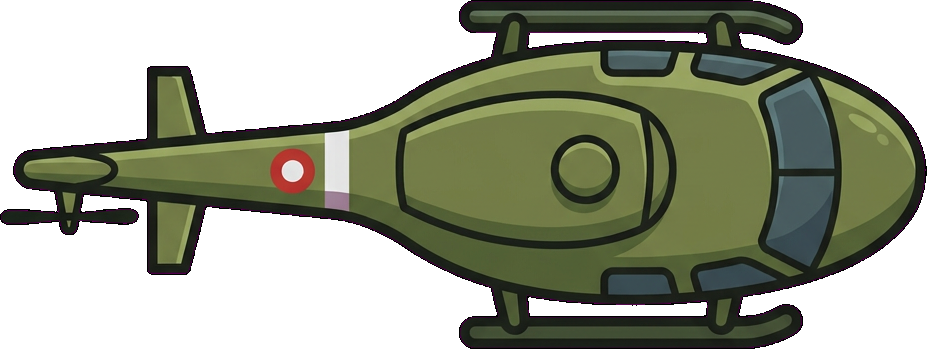
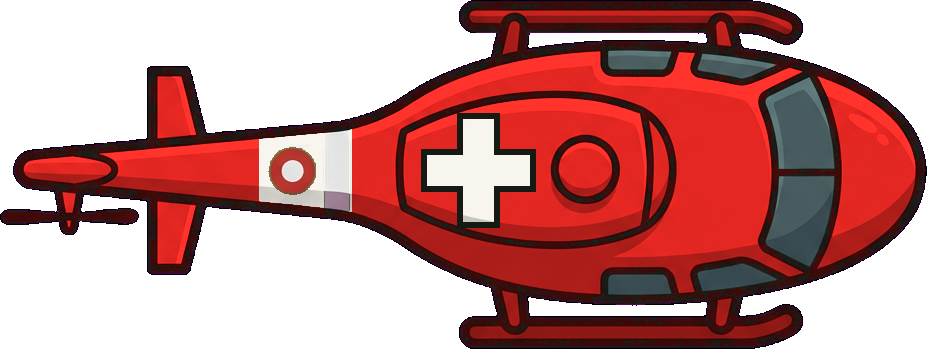
Rescue-red chopper; rotor slices zombies while landed; squish drops no loot
- Chopper body recoloured from the same source art (geometry unchanged, so
  the hub anchor, footprint and shadow still line up): bright rescue red with
  a white tail band and a white cross with an ink outline on the engine cover.
- Rotor slicing from touchdown until lift-off: each blade pass rolls
  RUN.sliceChance for every zombie within RUN.sliceRadius of the hub, limited
  to RUN.slicesPerSecond (bursts up to sliceBurst). Chopped zombies lose
  limbs/head through Limbs.launch, flung along the blade's spin with a big
  spray and floor streaks; throttled rotor-chop sound (new sfx), head pop.
- Horde.kill takes a KillCredit: "full" (normal), "count" (counts, no
  onKill loot/drops) for the touchdown squish, "none" for rotor slices (no
  kill count, no loot, no drops). The player is never touched by either.

diff --git a/src/run/Chopper.ts b/src/run/Chopper.ts
@@ -3,7 +3,7 @@ import { ARENA } from "../config/arena";
 import type { Audio } from "../audio/Audio";
 import { BLOOD_SPRAY } from "../combat/CombatContext";
 import { RUN } from "../config/run";
-import { KNOCKBACK_DRAG, MAX_ZOMBIE_RADIUS } from "../config/zombies";
+import { KNOCKBACK_DRAG, MAX_ZOMBIE_RADIUS, PART_IDS } from "../config/zombies";
 import { rand } from "../core/random";
 import type { ExclusionZone, Horde } from "../entities/Horde";
 import type { Zombie } from "../entities/Zombie";
@@ -43,6 +43,10 @@ const SQUISH_SPRAY = 10;
 const SQUISH_TRAUMA = 0.4;
 const LAND_TRAUMA = 0.15;
 const TWO_PI = Math.PI * 2;
+/** Rotor blades; each one sweeping past is a chance to chop. */
+const BLADES = 4;
+/** Chopped bodies and pieces leave along the blade, with this much of the push straight out from the hub. */
+const FLING_OUT = 0.5;
 
 /** What the chopper pushes, squishes and shakes. */
 export interface ChopperWorld {
@@ -100,6 +104,12 @@ export class Chopper {
   private readonly keepOut: ExclusionZone[] = [];
   /** Footprint outline while the AI debug overlay (V) is on. */
   private readonly debug = new Graphics();
+  /** Rotor angle since the last blade pass, chops banked by the rate limit, and the chop sound's cooldown. */
+  private bladeTurn = 0;
+  private chops = 0;
+  private chopSound = 0;
+  private readonly stump = { x: 0, y: 0 };
+  private readonly inReach: Zombie[] = [];
 
   constructor(
     private readonly tex: GameTextures,
@@ -212,6 +222,7 @@ export class Chopper {
       this.y = this.from.y + Math.sin(this.heading) * run;
     }
     this.rotor.rotation += RUN.rotorSpin * dt;
+    if (this.phase === "landed") this.slice(dt);
     const wash =
       this.phase === "descend" ? this.descentWash(dt) : this.blow(dt);
     this.kickDust(dt, wash);
@@ -349,7 +360,7 @@ export class Chopper {
         SQUISH_SPRAY,
         BLOOD_SPRAY,
       );
-      horde.kill(z);
+      horde.kill(z, "count");
     }
     for (const c of circles) this.keepOut.push(horde.addZone(c.x, c.y, c.r));
     audio.play("explosion", {
@@ -359,6 +370,72 @@ export class Chopper {
     if (crushed.size > 0)
       audio.play("zombieTear", { pitch: rand(0.7, 0.85), volume: 0.9 });
     camera.addTrauma(crushed.size > 0 ? SQUISH_TRAUMA : LAND_TRAUMA);
+  }
+
+  /**
+   * Landed: the turning blades chew the crowd at the body's edge. Each blade pass rolls for every
+   * zombie in reach, rate-limited so it reads as a gory spectacle rather than a force field.
+   */
+  private slice(dt: number): void {
+    this.chops = Math.min(
+      RUN.sliceBurst,
+      this.chops + RUN.slicesPerSecond * dt,
+    );
+    this.chopSound -= dt;
+    this.bladeTurn += RUN.rotorSpin * dt;
+    const pass = TWO_PI / BLADES;
+    while (this.bladeTurn >= pass) {
+      this.bladeTurn -= pass;
+      if (this.chops < 1) continue;
+      const r = RUN.sliceRadius;
+      const { x, y } = this;
+      this.inReach.length = 0;
+      this.world.horde.hash.queryBox(x - r, y - r, x + r, y + r, (z) => {
+        if (!z.dead && (z.x - x) ** 2 + (z.y - y) ** 2 < r * r)
+          this.inReach.push(z);
+      });
+      for (const z of this.inReach) {
+        if (this.chops < 1) break;
+        if (Math.random() >= RUN.sliceChance) continue;
+        this.chops -= 1;
+        this.chop(z);
+      }
+    }
+  }
+
+  /** Chop one zombie: limbs and head fly off along the blade, blood sprays after them, no reward. */
+  private chop(z: Zombie): void {
+    const { horde, fx, audio } = this.world;
+    const d = Math.max(0.001, Math.hypot(z.x - this.x, z.y - this.y));
+    const rx = (z.x - this.x) / d;
+    const ry = (z.y - this.y) / d;
+    // The rotor turns clockwise on screen, so a blade moves along (-ry, rx) where it meets the zombie.
+    let fx0 = -ry + rx * FLING_OUT;
+    let fy0 = rx + ry * FLING_OUT;
+    const len = Math.hypot(fx0, fy0);
+    fx0 /= len;
+    fy0 /= len;
+    z.kx = fx0 * RUN.sliceFling;
+    z.ky = fy0 * RUN.sliceFling;
+    let head = false;
+    const parts = z.def.art.parts;
+    for (let bit = 0; bit < PART_IDS.length; bit++) {
+      if (!parts?.[PART_IDS[bit]] || z.missing & (1 << bit)) continue;
+      if (Math.random() >= RUN.slicePartChance) continue;
+      horde.limbs.launch(z, bit, fx0, fy0, this.stump);
+      z.sever(bit);
+      head ||= PART_IDS[bit] === "head";
+      fx.bloodBurst(this.stump.x, this.stump.y, fx0, fy0, 10, BLOOD_SPRAY);
+    }
+    fx.bloodBurst(z.x, z.y, fx0, fy0, RUN.sliceSpray, BLOOD_SPRAY);
+    for (let i = 0; i < 3; i++) horde.splat(z.x, z.y, fx0, fy0);
+    z.drop();
+    horde.kill(z, "none");
+    if (this.chopSound > 0) return;
+    this.chopSound = RUN.chopSoundGap;
+    audio.play("rotorChop", { pitch: rand(0.85, 1.15), volume: 0.8 });
+    if (head)
+      audio.play("zombieHeadPop", { pitch: rand(0.9, 1.2), volume: 0.6 });
   }
 
   private releaseKeepOut(): void {

diff --git a/src/config/run.ts b/src/config/run.ts
@@ -95,6 +95,21 @@ export const RUN = {
   descentReach: 120,
   /** At touchdown a zombie is squished if its centre is inside a footprint circle grown by this share of its own radius. */
   squishOverlap: 0.5,
+  /**
+   * Rotor slicing while landed: on each blade pass, every zombie within `sliceRadius` px of the hub
+   * has `sliceChance` of being chopped, limited to `slicesPerSecond` (with bursts up to `sliceBurst`).
+   * Chopped zombies lose limbs and head, which fly off along the blade at `sliceFling` px/s. No reward.
+   */
+  sliceRadius: 135,
+  sliceChance: 0.12,
+  slicesPerSecond: 5,
+  sliceBurst: 3,
+  sliceFling: 520,
+  /** Chance each attached part comes off when chopped, and blood sparks per chop. */
+  slicePartChance: 0.7,
+  sliceSpray: 26,
+  /** Minimum seconds between chop sounds. */
+  chopSoundGap: 0.12,
   /** Rotor wash while low: zombies inside `washRadius` drift outward at up to `washPush` px/s, fading to 0 at the edge. */
   washRadius: 170,
   washPush: 160,

diff --git a/src/entities/Horde.ts b/src/entities/Horde.ts
@@ -30,6 +30,12 @@ const ZOMBIE_IDS = Object.keys(ZOMBIES) as ZombieId[];
 /** How long the debug overlay shows a gunshot's noise ring. */
 const NOISE_RING_SECONDS = 0.35;
 
+/**
+ * How a kill pays out: `full` counts it and fires onKill (loot, orb drops), `count` only adds to
+ * the kill count, `none` neither (comic deaths, like the chopper's rotor).
+ */
+export type KillCredit = "full" | "count" | "none";
+
 /** A circle zombies can't enter: a shield bubble, a safety portal. Move it by writing x, y and radius. */
 export interface ExclusionZone {
   x: number;
@@ -228,9 +234,9 @@ export class Horde {
   }
 
   /** Kill a zombie. The body keeps its knockback and skids to rest before it's stamped down. */
-  kill(z: Zombie): void {
-    this.kills++;
-    this.onKill?.(z);
+  kill(z: Zombie, credit: KillCredit = "full"): void {
+    if (credit !== "none") this.kills++;
+    if (credit === "full") this.onKill?.(z);
     this.corpses.spawn(
       z.x,
       z.y,

diff --git a/src/audio/Audio.ts b/src/audio/Audio.ts
@@ -27,6 +27,7 @@ const SFX = {
   airstrikeWarning: "/audio/sfx/airstrike-warning.mp3",
   airstrikeRoar: "/audio/sfx/airstrike-roar.mp3",
   chopperLoop: "/audio/sfx/chopper-loop.mp3",
+  rotorChop: "/audio/sfx/rotor-chop.mp3",
   extracted: "/audio/sfx/extracted.mp3",
   zombieHit: "/audio/sfx/zombie-hit.mp3",
   zombieDeath: "/audio/sfx/zombie-death.mp3",
